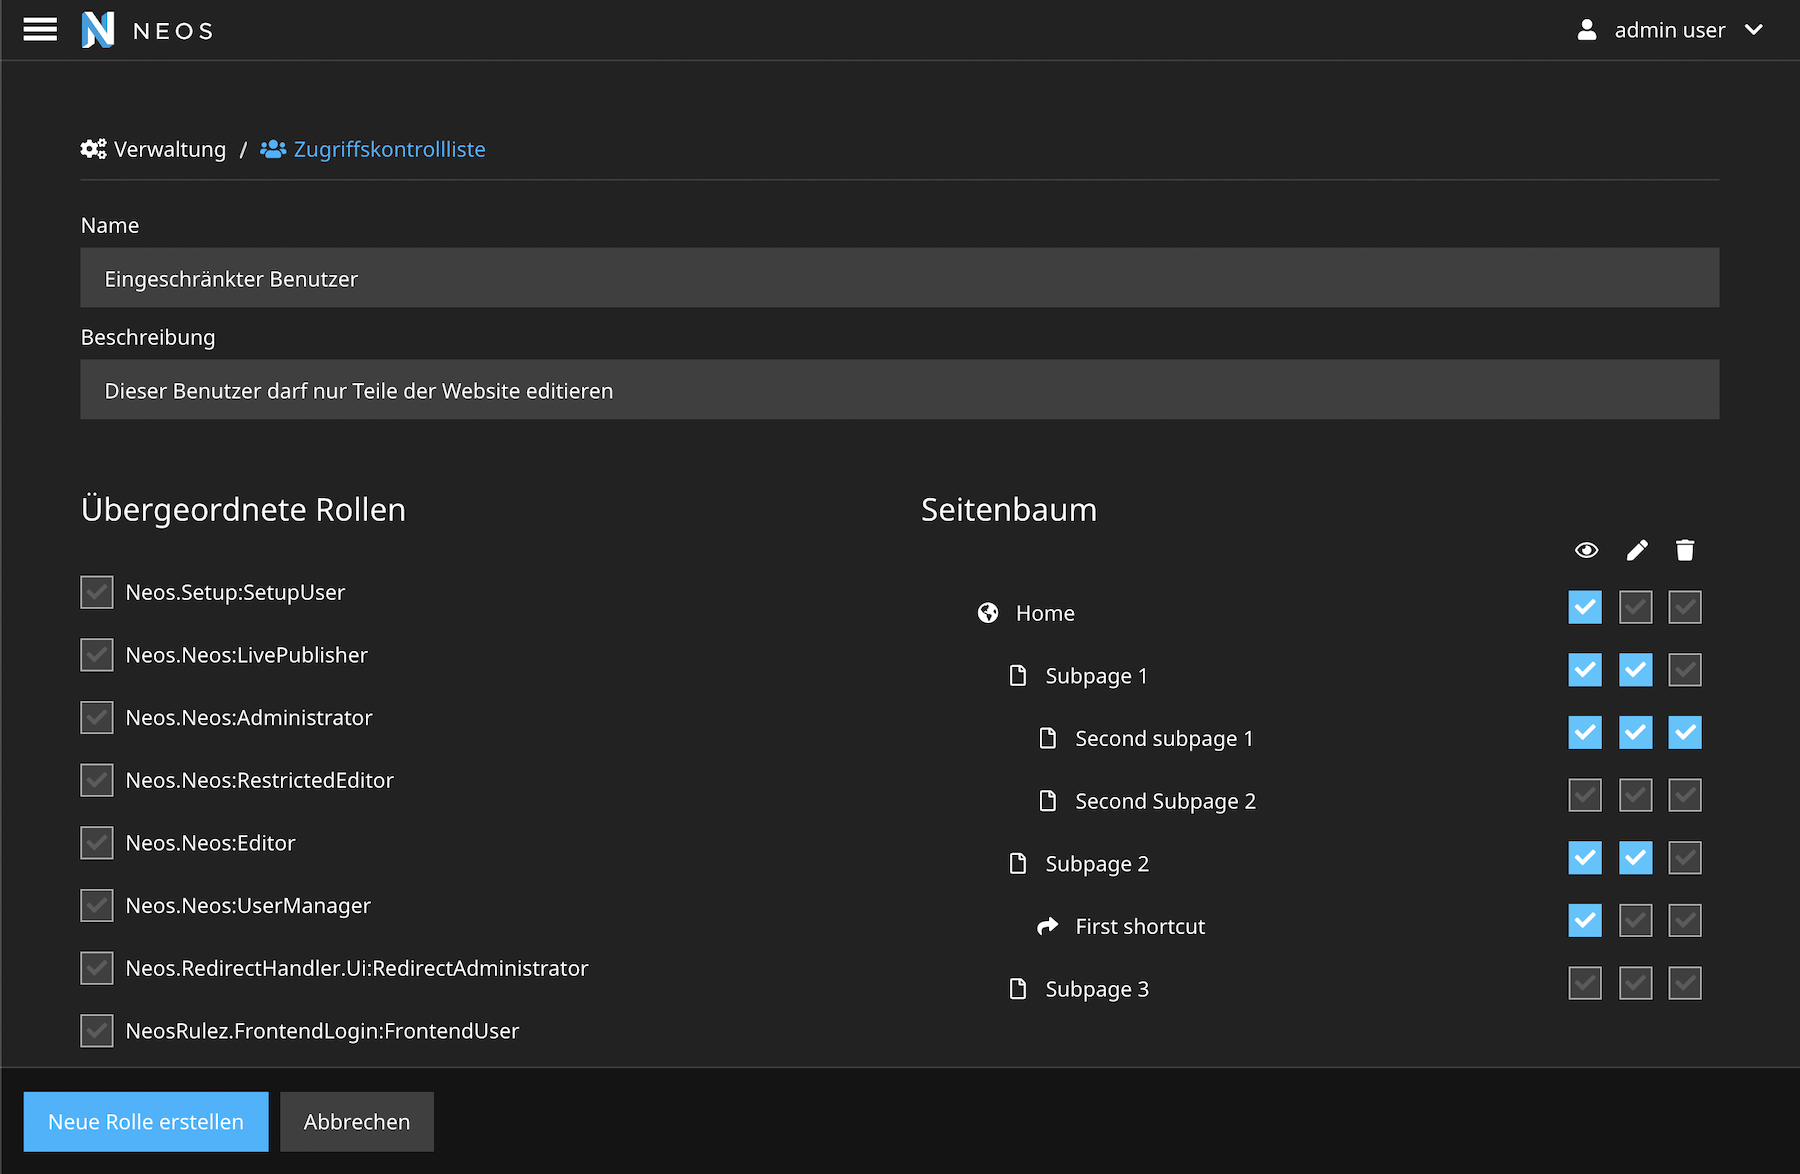
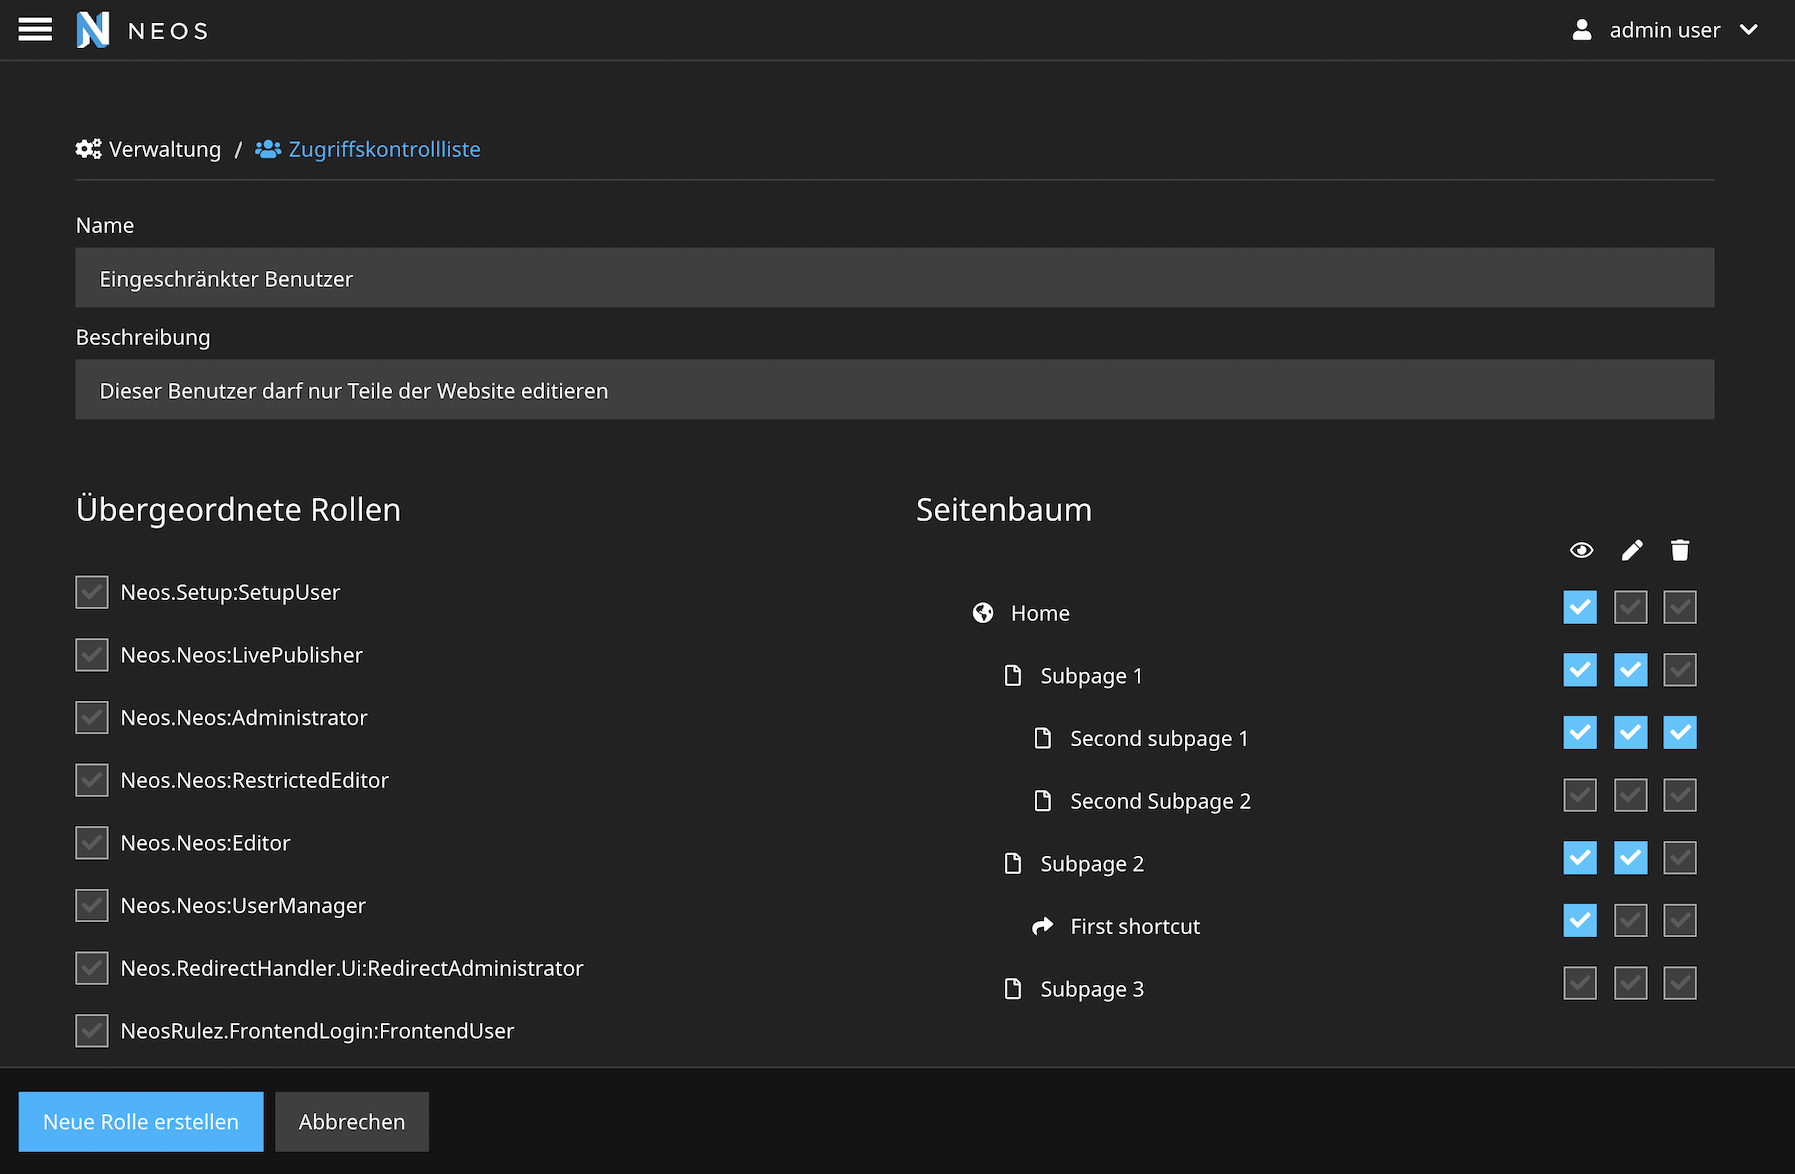
+ preview image in README.md

diff --git a/README.md b/README.md
@@ -2,6 +2,8 @@
 
 NeosRulez.Acl provides the missing access control list for Neos CMS. It allows the administration of access rights for backend- and also for frontend users via the Neos backend.
 
+![Acl](https://raw.githubusercontent.com/patriceckhart/NeosRulez.Acl/master/Preview.png)
+
 ## Installation
 
 The NeosRulez.Acl package is listed on packagist (https://packagist.org/packages/neosrulez/acl) - therefore you don't have to include the package in your "repositories" entry any more.
